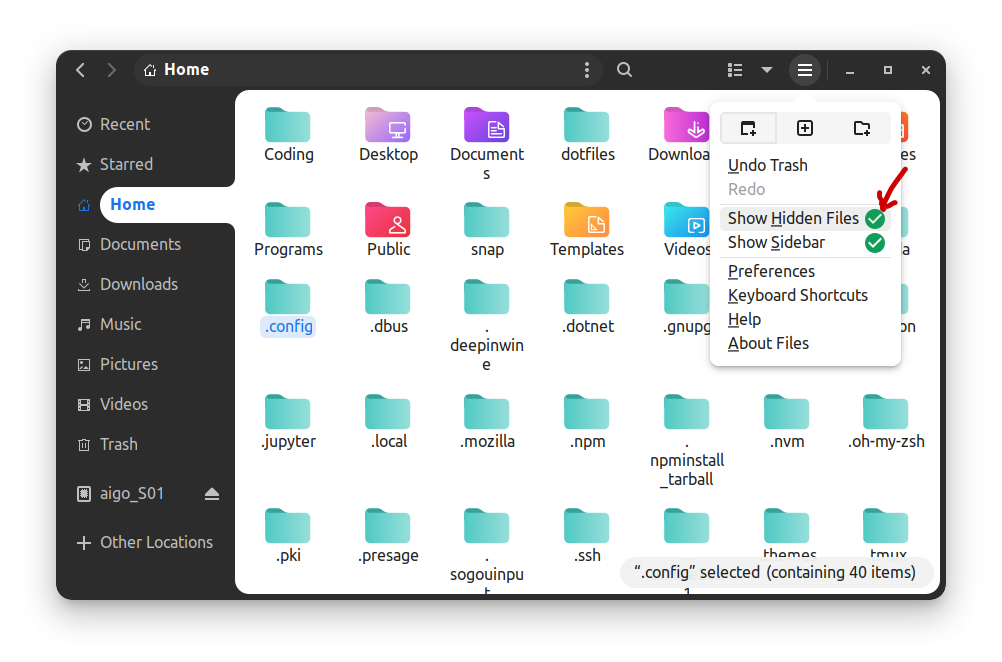
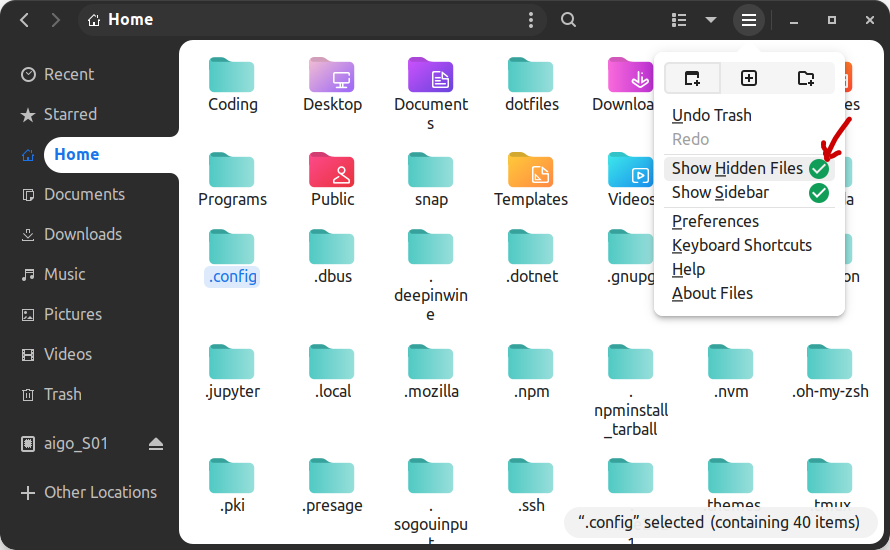
update my ubuntu 显示隐藏文件

diff --git a/source/_posts/computer/Linux/My_Ubuntu.md b/source/_posts/computer/Linux/My_Ubuntu.md
@@ -103,7 +103,9 @@ wget -O- ~/Downloads URL | sh  # 将*.sh文件直接用sh命令进行安装
 
 所有以 `.` 开头的文件名都是**隐藏文件**，要在Ubuntu的文件管理器中显示可以看下图操作：
 
-![显示隐藏文件](/figures/My_Ubuntu.assets/显示隐藏文件.png)
+|![显示隐藏文件](/figures/My_Ubuntu.assets/显示隐藏文件.png)| ![显示隐藏文件Ubuntu24.04](/figures/My_Ubuntu.assets/显示隐藏文件Ubuntu24.04.png)
+|-|-|
+|显示隐藏文件Ubuntu22.04|显示隐藏文件Ubuntu24.04|
 
 Ubuntu中有以下的一些常用路径，便于后续找到文件位置：
 
